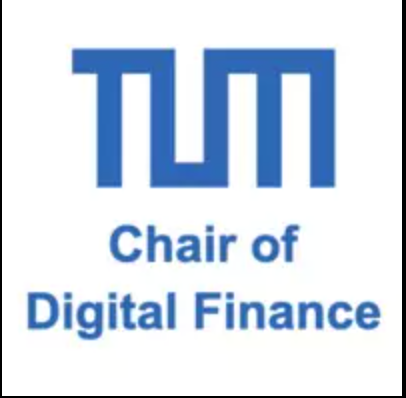
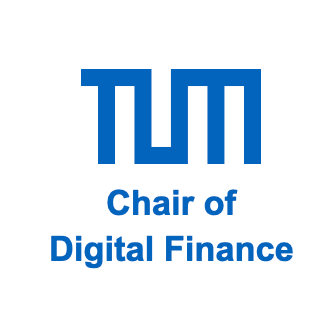
add overconfidence bias

diff --git a/src/helpers/BiasEducationCenter.js b/src/helpers/BiasEducationCenter.js
@@ -1,5 +1,6 @@
-import anchoringBiasItems from '../img/anchoring-bias-items.png';
-import representativenessBiasItems from '../img/representativeness-bias-items.png';
+import representativenessBiasTable from '../img/representativeness-bias-table.png';
+import anchoringBiasTable from '../img/anchoring-bias-table.png';
+import overconfidenceBiasTable from '../img/overconfidence-bias-table.png';
 
 export const BiasEducationCenter = [
   {
@@ -10,7 +11,7 @@ export const BiasEducationCenter = [
       'Please, make sure you understand what this bias means, you will be needing this moving forward.',
     instruction:
       'For this test you will use E and I to categorize items as fast as you can.',
-    categoriesAndItems: representativenessBiasItems,
+    categoriesAndItems: representativenessBiasTable,
     questions: [
       {
         prompt:
@@ -232,7 +233,7 @@ export const BiasEducationCenter = [
       'Please, make sure you understand what this bias means, you will be needing this moving forward.',
     instruction:
       'For this test you will use E and I to categorize items as fast as you can.',
-    categoriesAndItems: anchoringBiasItems,
+    categoriesAndItems: anchoringBiasTable,
     questions: [
       {
         prompt:
@@ -439,6 +440,228 @@ export const BiasEducationCenter = [
         prompt:
           'Twitter`s current price is €45, and Facebook`s is €300, however that alone is not a reason to buy Twitter.',
         A: 'Anchoring Bias & Buy',
+        B: 'Not a Bias & Sell',
+        answer: 'B',
+        userSelection: '',
+        timeSpent: 0,
+      },
+    ],
+  },
+  {
+    bias: 'Bias #3: Overconfidence Bias',
+    description:
+      'The overconfidence bias refers to our belief or perception in our abilities to be higher than our `actual` or realized abilities. Investors with overconfidence bias often tend to believe that **they can pick the next big stock**. This often results in ill-advised attempts to time the market or build concentrations in risky investments they consider a sure thing.',
+    warning:
+      'Please, make sure you understand what this bias means, you will be needing this moving forward.',
+    instruction:
+      'For this test you will use E and I to categorize items as fast as you can.',
+    categoriesAndItems: overconfidenceBiasTable,
+    questions: [
+      {
+        prompt:
+          'Since I invested in Amazon at it`s start, I have a high probability of identifying the next big company as well.',
+        A: 'Overconfidence Bias',
+        B: 'Not a Bias',
+        answer: 'A',
+        userSelection: '',
+        timeSpent: 0,
+      },
+      {
+        prompt:
+          'I am an ill-informed investor, therefore I am better off buying a single index fund than investing in individual stocks myself.',
+        A: 'Overconfidence Bias',
+        B: 'Not a Bias',
+        answer: 'B',
+        userSelection: '',
+        timeSpent: 0,
+      },
+      {
+        prompt:
+          'The S&P 500 Index averages about 6.6% a year, but I personally can perform way better than that.',
+        A: 'Overconfidence Bias',
+        B: 'Not a Bias',
+        answer: 'A',
+        userSelection: '',
+        timeSpent: 0,
+      },
+      {
+        prompt:
+          'I have made great returns in the past, but that was not based upon my own capabilities only',
+        A: 'Overconfidence Bias',
+        B: 'Not a Bias',
+        answer: 'B',
+        userSelection: '',
+        timeSpent: 0,
+      },
+      {
+        prompt:
+          'I have lost money on all my crypto investments, but I think I make decent investment decisions.',
+        A: 'Overconfidence Bias',
+        B: 'Not a Bias',
+        answer: 'A',
+        userSelection: '',
+        timeSpent: 0,
+      },
+      {
+        prompt:
+          'I identified great web 2.0 stocks, but that does not mean I could do the same in the web 3.0 space.',
+        A: 'Overconfidence Bias',
+        B: 'Not a Bias',
+        answer: 'B',
+        userSelection: '',
+        timeSpent: 0,
+      },
+      {
+        prompt: 'To the moon.',
+        A: 'Buy',
+        B: 'Sell',
+        answer: 'A',
+        userSelection: '',
+        timeSpent: 0,
+      },
+      {
+        prompt: 'Crash.',
+        A: 'Buy',
+        B: 'Sell',
+        answer: 'B',
+        userSelection: '',
+        timeSpent: 0,
+      },
+      {
+        prompt: 'Diamond Hands.',
+        A: 'Buy',
+        B: 'Sell',
+        answer: 'A',
+        userSelection: '',
+        timeSpent: 0,
+      },
+      {
+        prompt: 'Paper Hands.',
+        A: 'Buy',
+        B: 'Sell',
+        answer: 'B',
+        userSelection: '',
+        timeSpent: 0,
+      },
+      {
+        prompt: 'Long.',
+        A: 'Buy',
+        B: 'Sell',
+        answer: 'A',
+        userSelection: '',
+        timeSpent: 0,
+      },
+      {
+        prompt: 'Short.',
+        A: 'Buy',
+        B: 'Sell',
+        answer: 'B',
+        userSelection: '',
+        timeSpent: 0,
+      },
+      {
+        prompt:
+          'Since I invested in Amazon at it`s start, I have a high probability of identifying the next big company as well.',
+        A: 'Overconfidence Bias & Sell',
+        B: 'Not a Bias & Buy',
+        answer: 'A',
+        userSelection: '',
+        timeSpent: 0,
+      },
+      {
+        prompt:
+          'I am an ill-informed investor, therefore I am better off buying a single index fund than investing in individual stocks myself.',
+        A: 'Overconfidence Bias & Sell',
+        B: 'Not a Bias & Buy',
+        answer: 'B',
+        userSelection: '',
+        timeSpent: 0,
+      },
+      {
+        prompt:
+          'The S&P 500 Index averages about 6.6% a year, but I personally can perform way better than that.',
+        A: 'Overconfidence Bias & Sell',
+        B: 'Not a Bias & Buy',
+        answer: 'A',
+        userSelection: '',
+        timeSpent: 0,
+      },
+      {
+        prompt:
+          'I have made great returns in the past, but that was not based upon my own capabilities only.',
+        A: 'Overconfidence Bias & Sell',
+        B: 'Not a Bias & Buy',
+        answer: 'B',
+        userSelection: '',
+        timeSpent: 0,
+      },
+      {
+        prompt:
+          'I have lost money on all my crypto investments, but I think I make decent investment decisions.',
+        A: 'Overconfidence Bias & Sell',
+        B: 'Not a Bias & Buy',
+        answer: 'A',
+        userSelection: '',
+        timeSpent: 0,
+      },
+      {
+        prompt:
+          'I identified great web 2.0 stocks, but that does not mean I could do the same in the web 3.0 space.',
+        A: 'Overconfidence Bias & Sell',
+        B: 'Not a Bias & Buy',
+        answer: 'B',
+        userSelection: '',
+        timeSpent: 0,
+      },
+      {
+        prompt:
+          'Since I invested in Amazon at it`s start, I have a high probability of identifying the next big company as well.',
+        A: 'Overconfidence Bias & Buy',
+        B: 'Not a Bias & Sell',
+        answer: 'A',
+        userSelection: '',
+        timeSpent: 0,
+      },
+      {
+        prompt:
+          'I am an ill-informed investor, therefore I am better off buying a single index fund than investing in individual stocks myself.',
+        A: 'Overconfidence Bias & Buy',
+        B: 'Not a Bias & Sell',
+        answer: 'B',
+        userSelection: '',
+        timeSpent: 0,
+      },
+      {
+        prompt:
+          'The S&P 500 Index averages about 6.6% a year, but I personally can perform way better than that.',
+        A: 'Overconfidence Bias & Buy',
+        B: 'Not a Bias & Sell',
+        answer: 'A',
+        userSelection: '',
+        timeSpent: 0,
+      },
+      {
+        prompt:
+          'I have made great returns in the past, but that was not based upon my own capabilities only.',
+        A: 'Overconfidence Bias & Buy',
+        B: 'Not a Bias & Sell',
+        answer: 'B',
+        userSelection: '',
+        timeSpent: 0,
+      },
+      {
+        prompt:
+          'I have lost money on all my crypto investments, but I think I make decent investment decisions.',
+        A: 'Overconfidence Bias & Buy',
+        B: 'Not a Bias & Sell',
+        answer: 'A',
+        userSelection: '',
+        timeSpent: 0,
+      },
+      {
+        prompt:
+          'I identified great web 2.0 stocks, but that does not mean I could do the same in the web 3.0 space.',
+        A: 'Overconfidence Bias & Buy',
         B: 'Not a Bias & Sell',
         answer: 'B',
         userSelection: '',

diff --git a/src/components/BiasTest.js b/src/components/BiasTest.js
@@ -97,10 +97,8 @@ const BiasTest = () => {
   const handleKeyPress = (event) => {
     if (showQuestion) {
       if (event.key === 'E' || event.key === 'e') {
-        console.log('e pressed');
         setSelectedAnswer('A');
       } else if (event.key === 'I' || event.key === 'i') {
-        console.log('i pressed');
         setSelectedAnswer('B');
       }
     }
@@ -161,7 +159,7 @@ const BiasTest = () => {
               </Typography>
               <Paper>
                 <img
-                  style={{ width: '450px', height: '270px' }}
+                  style={{ maxWidth: '65%', maxHeight: '65%' }}
                   alt={BiasEducationCenter[biasIndex].bias}
                   src={BiasEducationCenter[biasIndex].categoriesAndItems}
                 />

diff --git a/src/components/Footer.js b/src/components/Footer.js
@@ -26,8 +26,8 @@ const Footer = () => {
         variant='body1'
         gutterBottom
       >
-        Made with 💙 by Tunar Mahmudov & Muneeb Ahmed at TUM's Chair of Digital
-        Finance
+        Made with 💙 in Munich by Tunar Mahmudov & Muneeb Ahmed @ TUM's Chair of
+        Digital Finance
       </Typography>
       <div style={{ position: 'absolute', right: '0px' }}>
         <Typography
